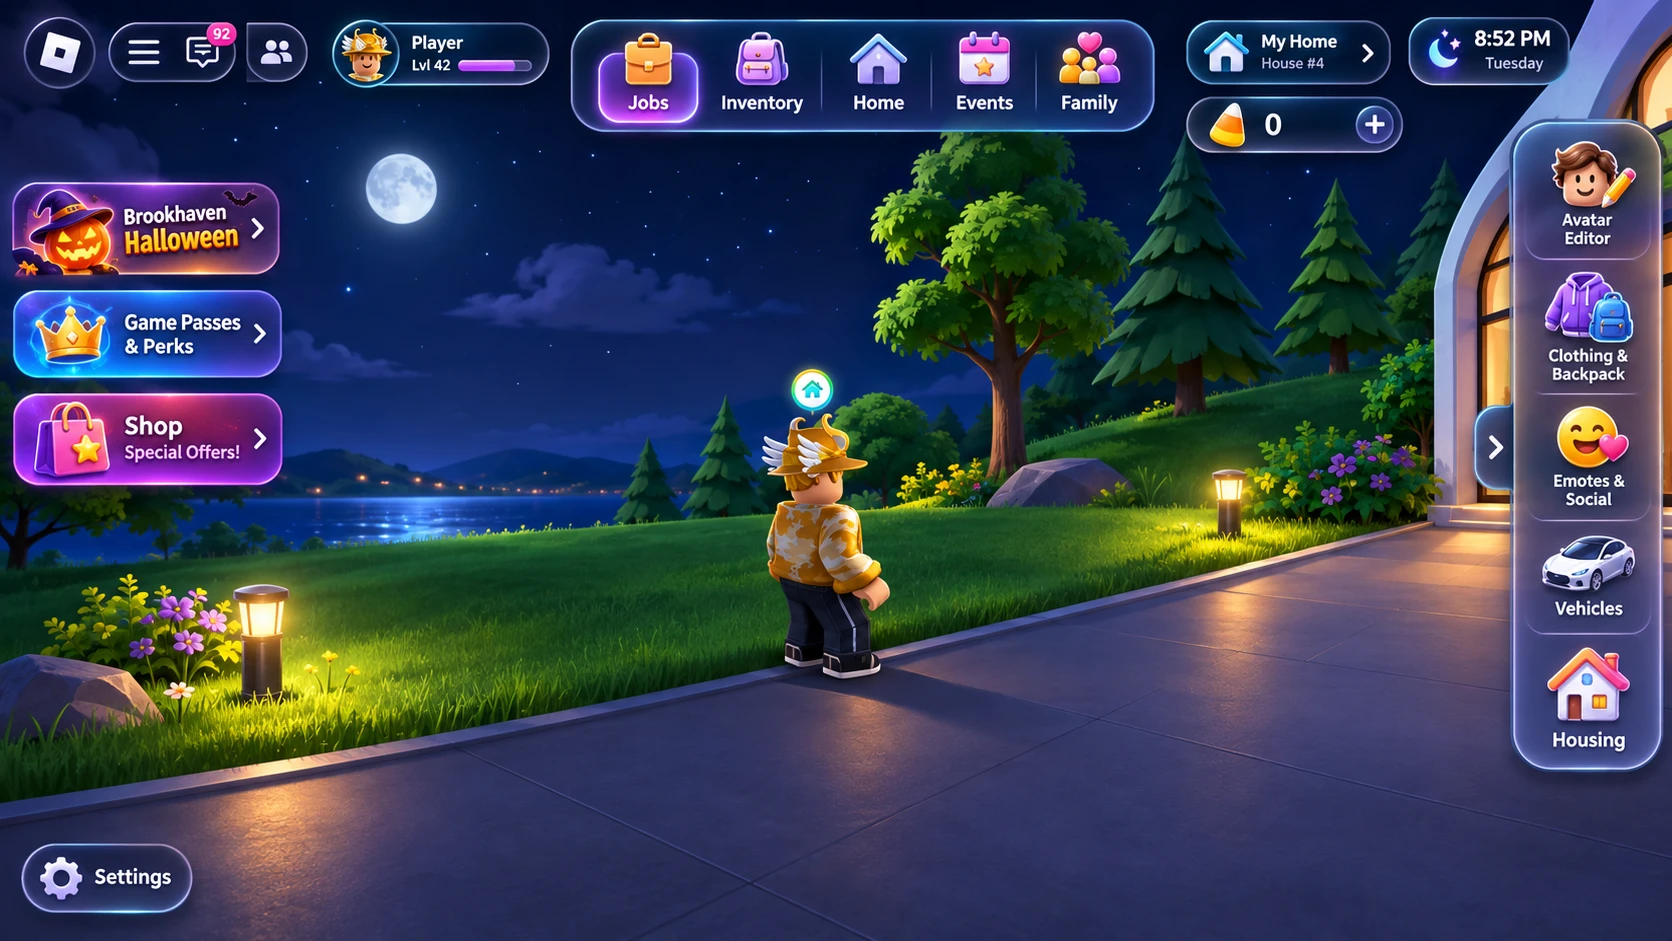
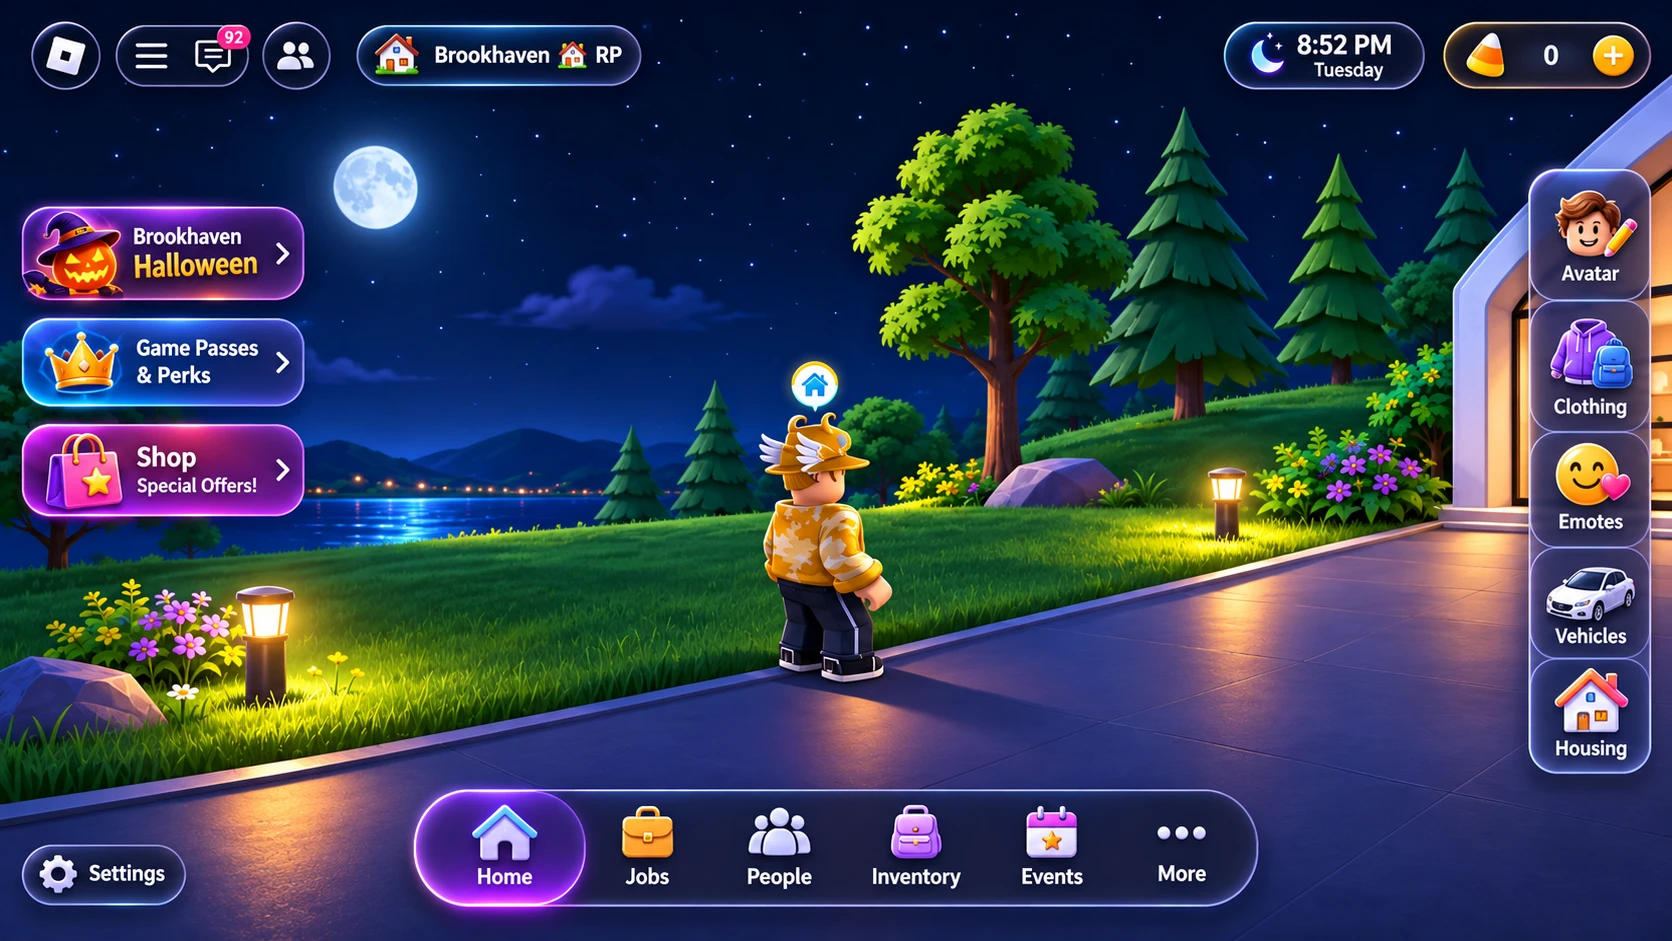
Brookhaven review: replace layout B mockup and full-width mockups
New full-layout mockup with a six-tab goal dock, one-word rail labels
and no level bar; caption and placeholder note updated to match.
Both mockups now display full width.

diff --git a/brookhaven-ux-review.html b/brookhaven-ux-review.html
@@ -644,10 +644,10 @@ footer{padding:28px 0 48px;color:var(--muted);font-size:14px}
     </div>
 
     <h3>Two visual directions</h3>
-    <p class="prose">I made these mockups for this review to explore how the cleanup could look. They aren't game screenshots, and the details are placeholders. For example, Brookhaven has no player level, so the level bar would be replaced with the RP name.</p>
+    <p class="prose">I made these mockups for this review to explore how the cleanup could look. They aren't game screenshots, and some details are placeholders. For example, Brookhaven has no player level, so the level bar in A would become the RP name. B drops it.</p>
     <div class="cols" style="grid-template-columns:1fr;gap:20px">
       <figure class="shot"><a href="brookhaven-ux-assets/visual-dock.webp" target="_blank" rel="noopener"><img src="brookhaven-ux-assets/visual-dock.webp" alt="Mockup A: night scene with a minimal HUD, a bottom dock of five labelled tabs (Home, Jobs, Family, Inventory, Shop), status chips for home, time and currency at the top, and a separate settings button" loading="lazy" width="1672" height="941" style="aspect-ratio:1672/941"></a><figcaption><b>A · Minimal dock.</b> Five labelled tabs organised by goal: Home, Jobs, Family, Inventory, Shop. Status chips for where you live, the time and your currency sit at the top, and Settings is set apart. Most of the world stays visible. Best suited to touch.</figcaption></figure>
-      <figure class="shot"><a href="brookhaven-ux-assets/visual-full.webp" target="_blank" rel="noopener"><img src="brookhaven-ux-assets/visual-full.webp" alt="Mockup B: the same scene with a labelled top tab bar, a labelled right rail for Avatar Editor, Clothing and Backpack, Emotes and Social, Vehicles and Housing, a left column of event, Game Passes and Shop offer cards, and a labelled Settings button" loading="lazy" width="1672" height="941" style="aspect-ratio:1672/941"></a><figcaption><b>B · Full layout.</b> A labelled top tab bar, and a labelled right rail for Avatar Editor, Clothing &amp; Backpack, Emotes &amp; Social, Vehicles and Housing. Event and offers get their own lane on the left. Easier to discover, but it covers more of the world. Better suited to desktop.</figcaption></figure>
+      <figure class="shot"><a href="brookhaven-ux-assets/visual-full.webp?v=2" target="_blank" rel="noopener"><img src="brookhaven-ux-assets/visual-full.webp?v=2" alt="Mockup B: the same scene with a bottom dock of six labelled tabs (Home, Jobs, People, Inventory, Events, More), a right rail labelled Avatar, Clothing, Emotes, Vehicles and Housing, a left lane of Halloween event, Game Passes and Shop offer cards, a game title chip, time and currency at the top, and a labelled Settings button" loading="lazy" width="1672" height="941" style="aspect-ratio:1672/941"></a><figcaption><b>B · Full layout.</b> The same goal dock, extended to six tabs: Home, Jobs, People (family and friends together), Inventory, Events, and More for everything else. A right rail with one-word labels for the tools you use while playing: Avatar, Clothing, Emotes, Vehicles, Housing. The event and offers get their own clearly separate lane on the left, and the top bar keeps just the game name, time and currency. Easier to discover, but it covers more of the world. Better suited to desktop.</figcaption></figure>
     </div>
 
     <div class="cols" style="margin-top:22px">
